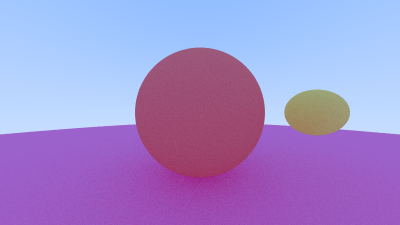
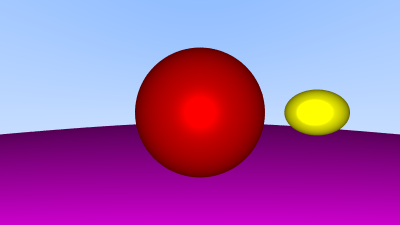
Phong shading (?)

diff --git a/main.cpp b/main.cpp
@@ -5,6 +5,9 @@
 #include "stb_image_write.h"
 #include "interval.h"
 #define AMBIENT_STRENGTH 0.3f
+#define DIFFUSE_STRENGTH 0.5f
+#define SPECULAR_STRENGTH 0.4f
+#define SHININESS 5.0f
 #define MAX_DEPTH 50
 
 #include <iostream>
@@ -13,10 +16,22 @@ color ray_color(const ray& r, const hittable& world, int depth) {
     hit_record rec;
 
     if (world.hit(r, interval(0.001, INFINITY), rec) && depth <= MAX_DEPTH) {
-        vec3 direction = random_on_hemisphere(rec.normal);
-        //float coeff = -1 * dot(r.direction(), rec.normal);
-        //return (rec.col * AMBIENT_STRENGTH) + ((-1 * dot(r.direction(), rec.normal)) * rec.col);
-        return (rec.col * AMBIENT_STRENGTH) + (0.5 * ray_color(ray(rec.p, direction), world, depth + 1));
+        //vec3 direction = random_on_hemisphere(rec.normal);
+        vec3 direction = rec.normal + random_unit_vector();
+
+        //ambient
+        vec3 ambient = rec.col * AMBIENT_STRENGTH;
+
+        //diffuse
+        vec3 diffuse = DIFFUSE_STRENGTH * std::max(-dot(r.direction(), rec.normal), 0.0) * rec.col;
+
+        //specular
+        vec3 refl_direction = reflect(r.direction(), rec.normal);
+        float shininess = pow(std::max(-dot(r.direction(), refl_direction), 0.0), SHININESS);
+        vec3 specular = rec.col * shininess * SPECULAR_STRENGTH;
+        
+
+        return ambient + diffuse + specular;
     }
 
     vec3 unit_direction = unit_vector(r.direction());
@@ -39,9 +54,9 @@ int main() {
     // World
     hittable_list world;
 
-    world.add(make_shared<sphere>(point3(0, 0, -1), 0.5, color(1,0,0)));
-    world.add(make_shared<sphere>(point3(1, 0, -1), 0.2, color(1,1,0)));
-    world.add(make_shared<sphere>(point3(0,-100.5,-1), 100, color(1,0,1))); //ground
+    world.add(make_shared<sphere>(point3(0, 0, -1), 0.5, color(1, 0, 0)));
+    world.add(make_shared<sphere>(point3(1, 0, -1), 0.2, color(1, 1, 0)));
+    world.add(make_shared<sphere>(point3(0, -100.5, -1), 100, color(1, 0, 1))); //ground
 
     // Camera
     auto focal_length = 1.0;

diff --git a/include/vec3.h b/include/vec3.h
@@ -127,4 +127,8 @@ inline vec3 random_on_hemisphere(const vec3& normal) {
     else
         return -on_unit_sphere;
 }
+
+vec3 reflect(const vec3& v, const vec3& n) {
+    return v - 2 * dot(v, n) * n;
+}
 #endif
